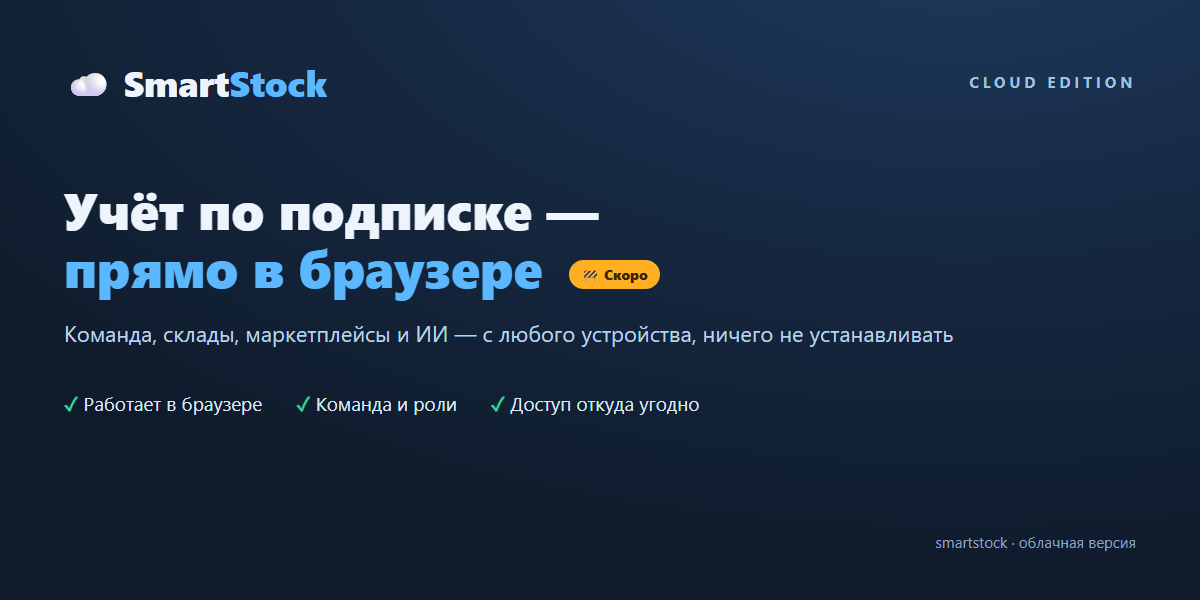
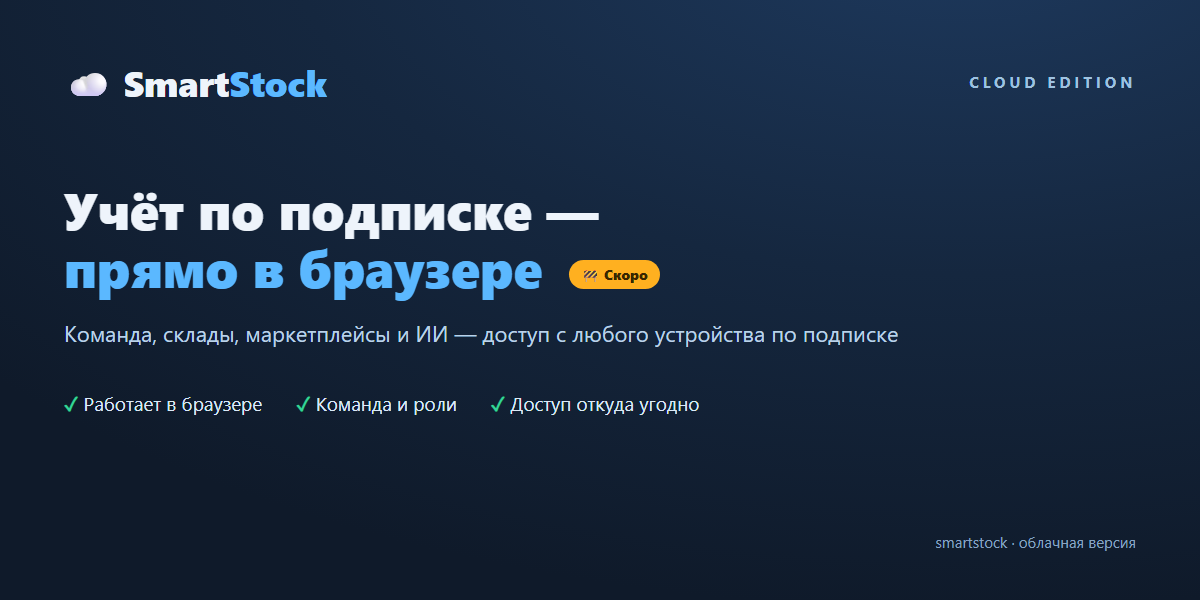
content: облачный баннер — убрана корявая формулировка «ничего не устанавливать»
Подзаголовок: «…доступ с любого устройства по подписке» (вместо «ничего не
устанавливать»). «Работает в браузере» уже есть в фичах.

Changed region(s): [[0.4008, 0.54, 0.8017, 0.57]]

diff --git a/assets/img/_banner_cloud.html b/assets/img/_banner_cloud.html
@@ -26,7 +26,7 @@
       <div class="edition">CLOUD EDITION</div>
     </div>
     <h1>Учёт по подписке —<br><span class="hl">прямо в браузере</span> <span class="soon">🚧 Скоро</span></h1>
-    <div class="sub">Команда, склады, маркетплейсы и ИИ — с любого устройства, ничего не устанавливать</div>
+    <div class="sub">Команда, склады, маркетплейсы и ИИ — доступ с любого устройства по подписке</div>
     <div class="feats">
       <span>Работает в браузере</span><span>Команда и роли</span><span>Доступ откуда угодно</span>
     </div>